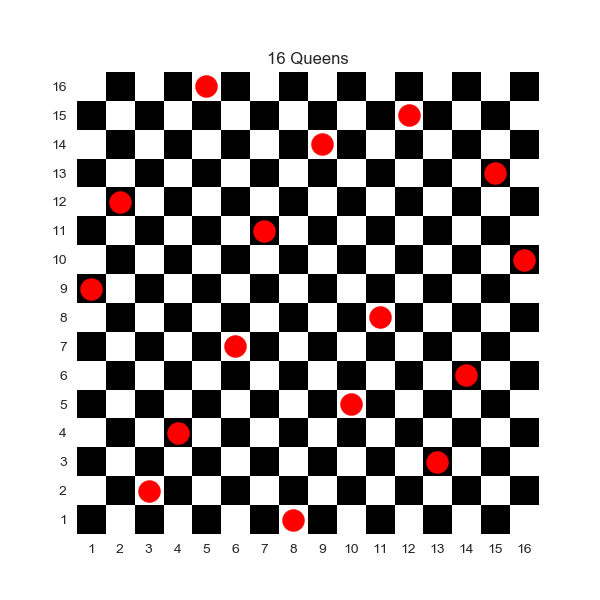
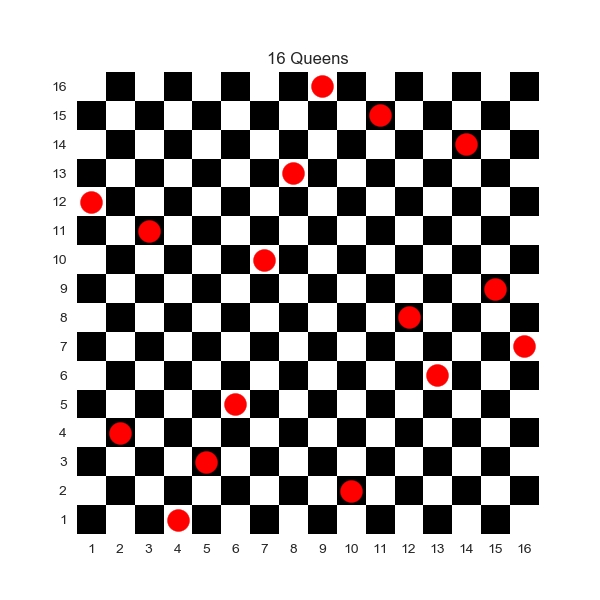
final solution
after commit revertion improved a little bit and Done :100:

diff --git a/population.py b/population.py
@@ -70,7 +70,11 @@ class main():
             r = np.random.rand()
             if r < self.mut_rate:
                 dna = DNA(self.dna_n).cromosome
-                cromosome[g] = np.random.choice(dna)
+                random_g = np.random.choice(dna)
+                while random_g == cromosome[g]:
+                    random_g = np.random.choice(dna)
+                else:
+                    cromosome[g] = random_g
         return cromosome
 
 
@@ -92,6 +96,12 @@ class main():
             r2 = np.random.randint(0, len(self.score_pool))
             parent1 = self.score_pool[r1]
             parent2 = self.score_pool[r2]
+
+            while (parent1 == parent2).all():
+                r1 = np.random.randint(0, len(self.score_pool))
+                r2 = np.random.randint(0, len(self.score_pool))
+                parent1 = self.score_pool[r1]
+                parent2 = self.score_pool[r2]
 
             child1, child2 = self.cross_over(parent1, parent2)
             self.new_generation.append(child1)

diff --git a/GUI.py b/GUI.py
@@ -149,9 +149,9 @@ class Ui_M_W(object):
         self.label.setText(_translate("M_W", " Queens Number :", None))
         self.run_btn.setText(_translate("M_W", "RUN", None))
         self.label_2.setText(_translate("M_W", " Population Size :", None))
-        self.pop_len.setText(_translate("M_W", "300", None))
+        self.pop_len.setText(_translate("M_W", "350", None))
         self.label_3.setText(_translate("M_W", " Mutation Rate :", None))
-        self.mut_rate.setText(_translate("M_W", "3", None))
+        self.mut_rate.setText(_translate("M_W", "1", None))
         self.label_4.setText(_translate("M_W", " Max Iteration :", None))
         self.max_iter.setText(_translate("M_W", "1000", None))
         self.label_5.setText(_translate("M_W", " %", None))
